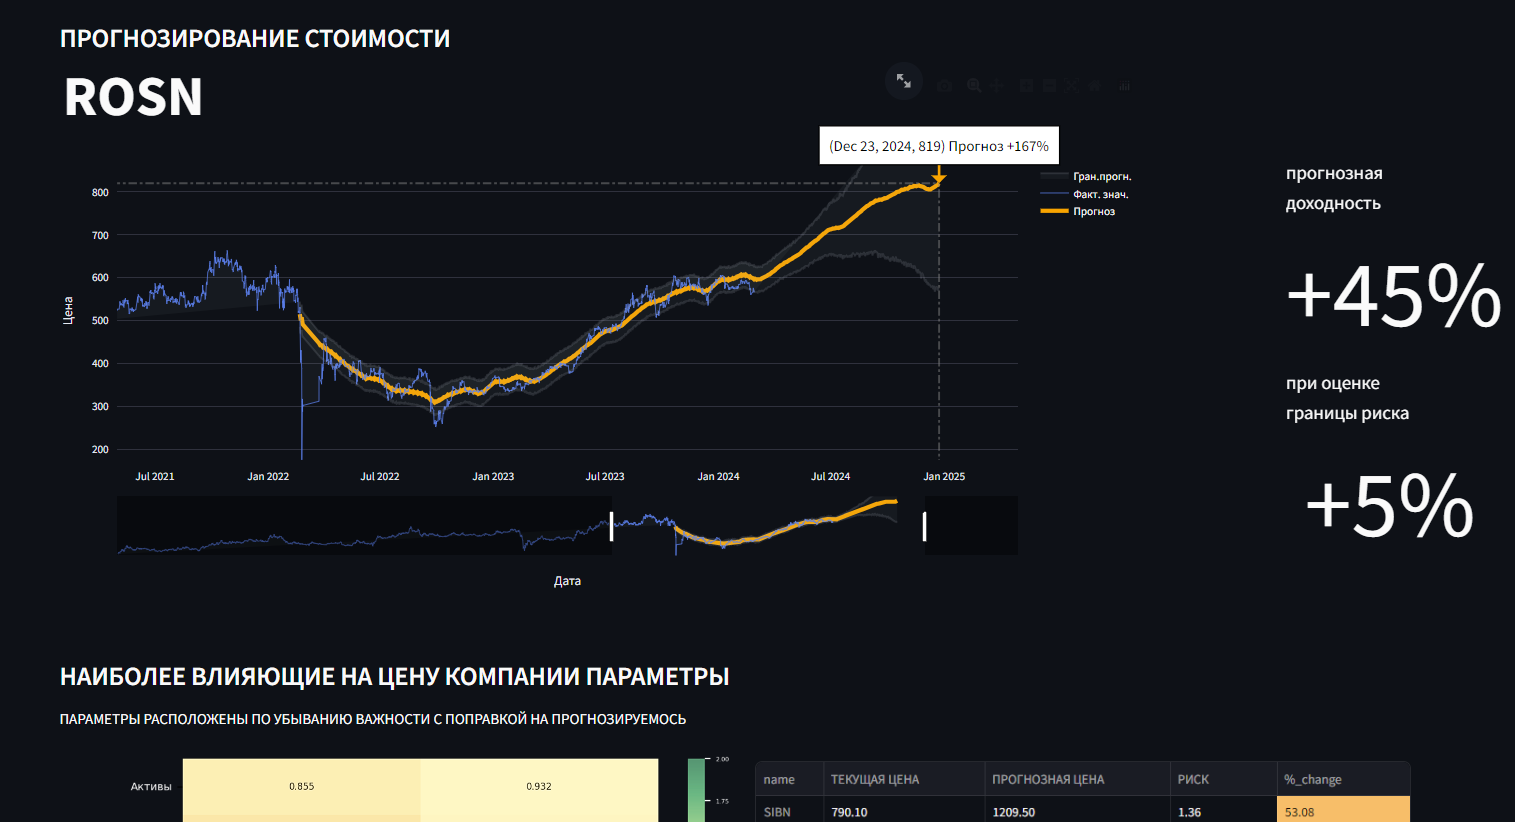
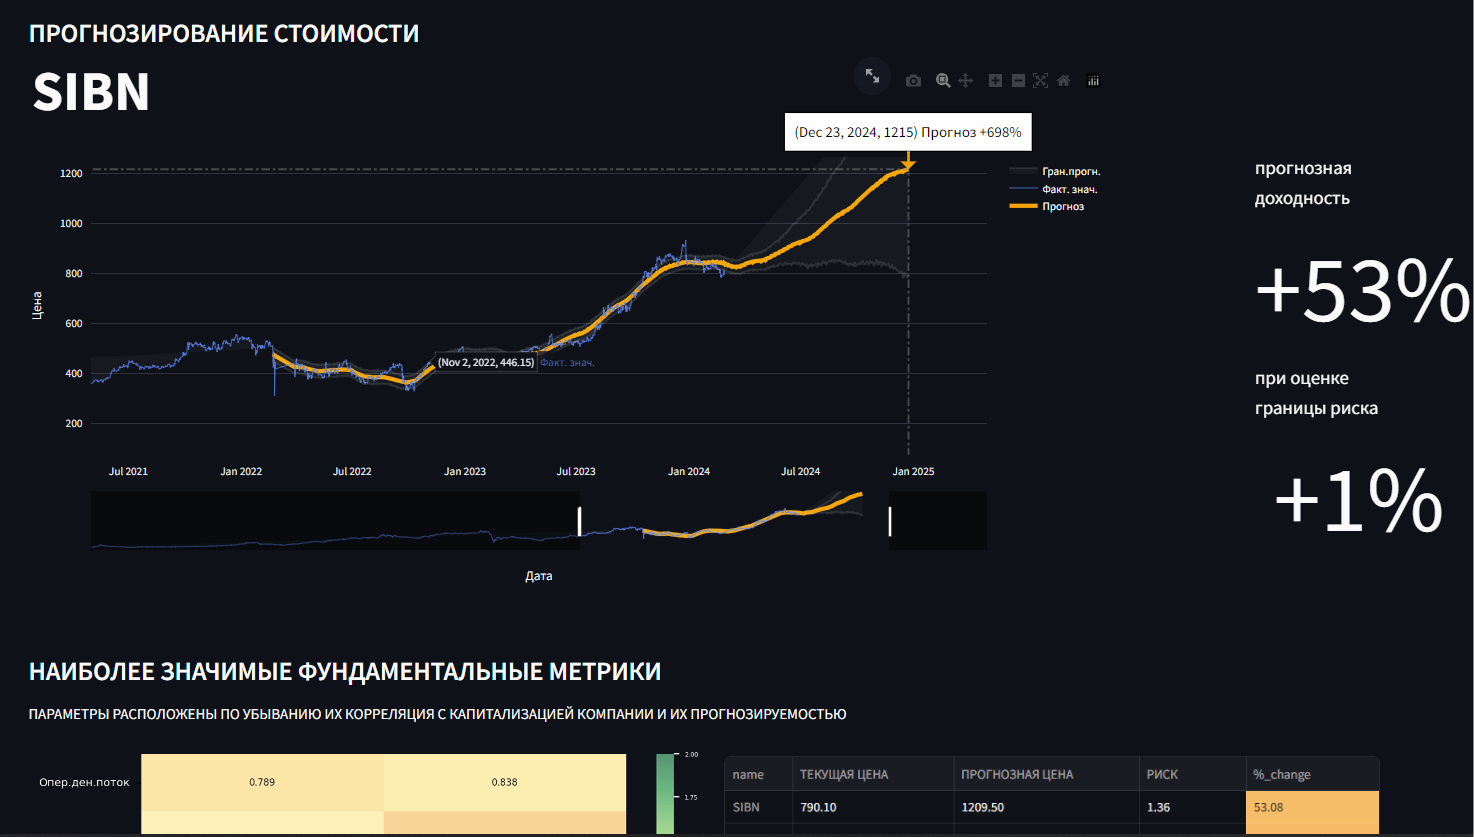
updated description images

diff --git a/main.py b/main.py
@@ -180,21 +180,21 @@ data.name = data.name.apply(str.upper)
 data.set_index('name', inplace=True)
 
 # Отображение DataFrame
-st.subheader('НАИБОЛЕЕ ВЛИЯЮЩИЕ НА ЦЕНУ КОМПАНИИ ПАРАМЕТРЫ')
-st.write('ПАРАМЕТРЫ РАСПОЛОЖЕНЫ ПО УБЫВАНИЮ ВАЖНОСТИ С ПОПРАВКОЙ НА ПРОГНОЗИРУЕМОСЬ')
+st.subheader('НАИБОЛЕЕ ЗНАЧИМЫЕ ФУНДАМЕНТАЛЬНЫЕ МЕТРИКИ')
+st.write('ПАРАМЕТРЫ РАСПОЛОЖЕНЫ ПО УБЫВАНИЮ ИХ КОРРЕЛЯЦИЯ С КАПИТАЛИЗАЦИЕЙ КОМПАНИИ И ИХ ПРОГНОЗИРУЕМОСТЬЮ')
 left, right = st.columns([1, 1])
 
 # График прогноза по росту
-fig1 = go.Figure()
-fig1.add_trace(
-    go.Bar(
-        x=data.reset_index().sort_values('%_change', ascending=True)['potential_yield_return'].iloc[:10],
-        y=data.reset_index().sort_values('%_change', ascending=True)['name'].iloc[:10],
-        orientation='h',
-        name='Прогнозный процент роста',
-        marker=dict(color='orange'),
-        )
-        )
+# fig1 = go.Figure()
+# fig1.add_trace(
+#     go.Bar(
+#         x=data.reset_index().sort_values('%_change', ascending=True)['potential_yield_return'].iloc[:10],
+#         y=data.reset_index().sort_values('%_change', ascending=True)['name'].iloc[:10],
+#         orientation='h',
+#         name='Прогнозный процент роста',
+#         marker=dict(color='orange'),
+#         )
+#         )
 # # График потенциального риска
 # fig1.add_trace(
 #     go.Bar(
@@ -206,15 +206,15 @@ fig1.add_trace(
 #     )
 # )
 
-fig1.update_layout(
-title='Прогнозный процент роста и Потенциальный риск',
-                    template='plotly_white',
-                    height=350,
-                    width=850,
-                    barmode='group'
-                    )
-fig1.update_xaxes(side='top')
-st.plotly_chart(fig1)
+# fig1.update_layout(
+# title='Прогнозный процент роста и Потенциальный риск',
+#                     template='plotly_white',
+#                     height=350,
+#                     width=850,
+#                     barmode='group'
+#                     )
+# fig1.update_xaxes(side='top')
+# st.plotly_chart(fig1)
 
 with right:
     st.write("")
